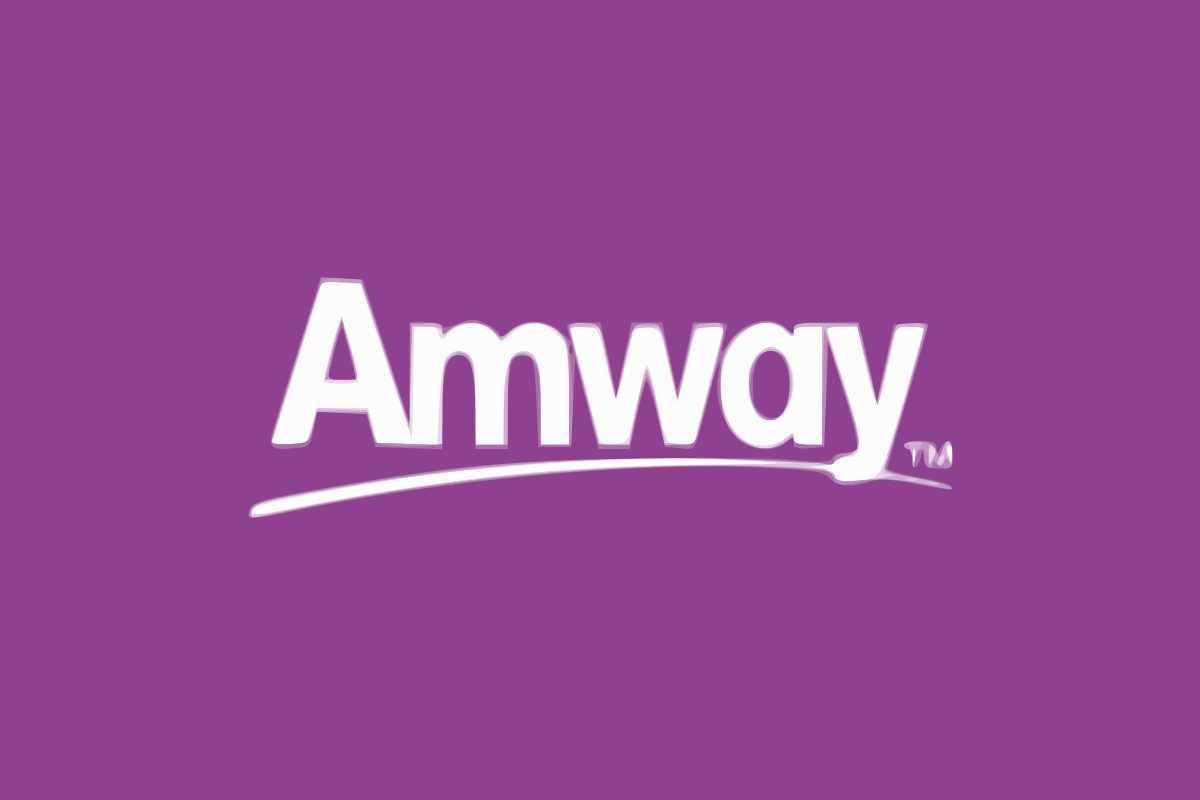
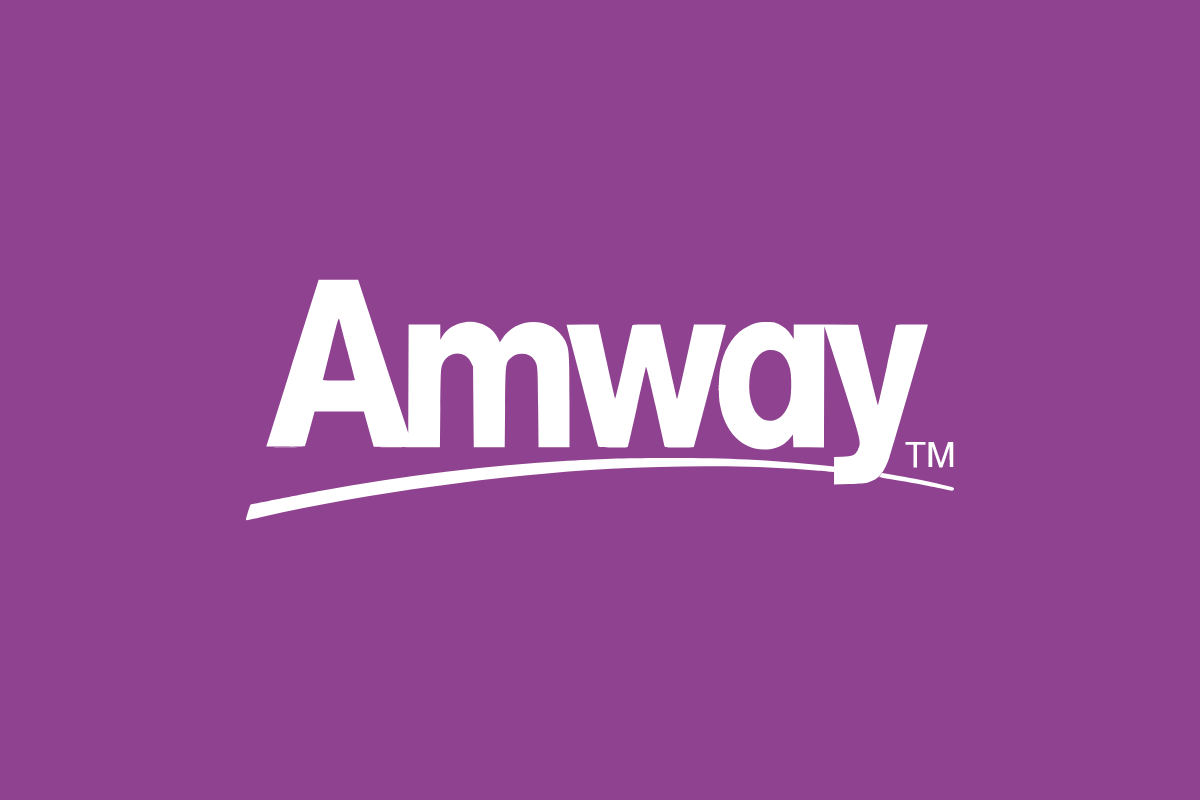
minor style adjustments

Changed region(s): [[0.2158, 0.3438, 0.8017, 0.625], [0.185, 0.625, 0.2467, 0.6562]]

diff --git a/index.html b/index.html
@@ -42,7 +42,8 @@
       <div class="collapse navbar-collapse" id="navbarSupportedContent">
             
         <div class="left-menu">
-          <ul class="navbar-nav nav-dropdown" data-app-modern-menu="true"><li class="nav-item">
+          <ul class="navbar-nav nav-dropdown" data-app-modern-menu="true">
+              <li class="nav-item">
                   <a class="nav-link link text-black display-4" href="https://cash.me/$michaelsboost">DONATE</a>
               </li>
               <li class="nav-item">
@@ -55,7 +56,7 @@
           <div class="navbar-brand">
               <span class="navbar-logo">
                   
-                      <a href="index.html"><img src="assets/images/logo-355x355.png" alt="Mobirise" title="" media-simple="true" style="height: 3.8rem;"></a>
+                      <a href="index.html"><img src="assets/images/logo-355x355.png" alt="Home" title="" media-simple="true" style="height: 3.8rem;"></a>
                   
               </span>
               <span class="navbar-caption-wrap"><a class="navbar-caption text-black display-5" href="http://michaelsboost.github.io/">&nbsp;</a></span>
@@ -63,7 +64,8 @@
         </div>
 
         <div class="right-menu">
-          <ul class="navbar-nav nav-dropdown" data-app-modern-menu="true"><li class="nav-item">
+          <ul class="navbar-nav nav-dropdown" data-app-modern-menu="true">
+            <li class="nav-item">
                 <a class="nav-link link text-black display-4" href="apps.html">
                     APPLICATIONS</a>
             </li>
@@ -383,7 +385,7 @@
             <div class="card px-3 py-4 col-12 col-md-6 col-lg-3">
                 <div class="card-wrapper">
                     <div class="card-img">
-                        <a href="http://earthily-enterprises.com/" target="_blank"><img src="assets/images/amway-bg-1200x800.png" alt="Mobirise" title="" media-simple="true"></a>
+                        <a href="http://earthily-enterprises.com/" target="_blank"><img src="assets/images/amway-1200x800.svg" alt="Amway" title="" media-simple="true"></a>
                     </div>
                     
                 </div>
@@ -392,7 +394,7 @@
             <div class="card px-3 py-4 col-12 col-md-6 col-lg-3">
                 <div class="card-wrapper">
                     <div class="card-img">
-                        <a href="http://www.swagbucks.com/refer/justicerises"><img src="assets/images/wfwqw-756x504.png" alt="Mobirise" title="" media-simple="true"></a>
+                        <a href="http://www.swagbucks.com/refer/justicerises"><img src="assets/images/wfwqw-756x504.png" alt="Swagbucks" title="" media-simple="true"></a>
                     </div>
                     
                 </div>
@@ -401,7 +403,7 @@
             <div class="card px-3 py-4 col-12 col-md-6 col-lg-3">
                 <div class="card-wrapper">
                     <div class="card-img">
-                        <a href="https://share.robinhood.com/michaes2685" target="_blank"><img src="assets/images/mbr-2-1620x1080.jpg" alt="Mobirise" title="" media-simple="true"></a>
+                        <a href="https://share.robinhood.com/michaes2685" target="_blank"><img src="assets/images/mbr-2-1620x1080.jpg" alt="Robinhood" title="" media-simple="true"></a>
                     </div>
                     
                 </div>
@@ -410,7 +412,7 @@
             <div class="card px-3 py-4 col-12 col-md-6 col-lg-3">
                 <div class="card-wrapper">
                     <div class="card-img">
-                        <a href="http://animatron.com/wave?tap_a=19272-291192&tap_s=245506-aed048"><img src="assets/images/mbr-4-1620x1080.jpg" alt="Mobirise" title="" media-simple="true"></a>
+                        <a href="http://animatron.com/wave?tap_a=19272-291192&tap_s=245506-aed048"><img src="assets/images/mbr-4-1620x1080.jpg" alt="Animatron Wave" title="" media-simple="true"></a>
                     </div>
                     
                 </div>
@@ -425,7 +427,7 @@
             <div class="card px-3 py-4 col-12 col-md-6 col-lg-3">
                 <div class="card-wrapper">
                     <div class="card-img">
-                        <a href="https://get.uber.com/invite/michaels41699ue"><img src="assets/images/uber-ad-2-1620x1080.png" alt="Mobirise" title="" media-simple="true"></a>
+                        <a href="https://get.uber.com/invite/michaels41699ue"><img src="assets/images/uber-ad-2-1620x1080.png" alt="Uber" title="" media-simple="true"></a>
                     </div>
                     
                 </div>
@@ -435,7 +437,7 @@
             <div class="card px-3 py-4 col-12 col-md-6 col-lg-3">
                 <div class="card-wrapper">
                     <div class="card-img">
-                        <a href="https://www.taskrabbit.com/r/360a3/try"><img src="assets/images/taskrabbit-ad-2-1620x1080.png" alt="Mobirise" title="" media-simple="true"></a>
+                        <a href="https://www.taskrabbit.com/r/360a3/try"><img src="assets/images/taskrabbit-ad-2-1620x1080.png" alt="TaskRabbit" title="" media-simple="true"></a>
                     </div>
                     
                 </div>
@@ -445,7 +447,7 @@
             <div class="card px-3 py-4 col-12 col-md-6 col-lg-3">
                 <div class="card-wrapper">
                     <div class="card-img">
-                        <a href="https://www.ebates.com/r/SCHWAR1559?eeid=28187" target="_blank"><img src="assets/images/ebates-1200x800.png" alt="Mobirise" title="" media-simple="true"></a>
+                        <a href="https://www.ebates.com/r/SCHWAR1559?eeid=28187" target="_blank"><img src="assets/images/ebates-1200x800.png" alt="Ebates" title="" media-simple="true"></a>
                     </div>
                     
                 </div>
@@ -454,7 +456,7 @@
             <div class="card px-3 py-4 col-12 col-md-6 col-lg-3">
                 <div class="card-wrapper">
                     <div class="card-img">
-                        <a href="https://www.paypal.com/us/webapps/mpp/invite?token=kepXqLE2LN0"><img src="assets/images/paypal-ad-banner-1-1620x1080.png" alt="Mobirise" title="" media-simple="true"></a>
+                        <a href="https://www.paypal.com/us/webapps/mpp/invite?token=kepXqLE2LN0"><img src="assets/images/paypal-ad-banner-1-1620x1080.png" alt="Paypal" title="" media-simple="true"></a>
                     </div>
                     
                 </div>
@@ -464,7 +466,7 @@
             <div class="card px-3 py-4 col-12 col-md-6 col-lg-3">
                 <div class="card-wrapper">
                     <div class="card-img">
-                        <a href="https://cash.me/app/HMRRQXC" target="_blank"><img src="assets/images/square-cash-ad-1620x1080.png" alt="Mobirise" title="" media-simple="true"></a>
+                        <a href="https://cash.me/app/HMRRQXC" target="_blank"><img src="assets/images/square-cash-ad-1620x1080.png" alt="SquareCash" title="" media-simple="true"></a>
                     </div>
                     
                 </div>
@@ -474,7 +476,7 @@
             <div class="card px-3 py-4 col-12 col-md-6 col-lg-3">
                 <div class="card-wrapper">
                     <div class="card-img">
-                        <a href="https://webflow.com/?rfsn=1141243.a093a" target="_blank"><img src="assets/images/webflow-1200x800.png" alt="Mobirise" title="" media-simple="true"></a>
+                        <a href="https://webflow.com/?rfsn=1141243.a093a" target="_blank"><img src="assets/images/webflow-1200x800.png" alt="Webflow" title="" media-simple="true"></a>
                     </div>
                     
                 </div>
@@ -522,7 +524,7 @@
 <div id="mikes_posts">
   <div class="container">
     <div class="row">
-      <div class="box align-center">
+      <div class="box align-center mauto">
         <h2>Instagram Photos</h2>
         <div class="desc" align="center">
           <br>
@@ -536,7 +538,7 @@
           <div class="clear"></div>
         </div>
       </div>
-      <div class="box align-center">
+      <div class="box align-center mauto">
         <h2>Recent Tweets</h2>
         <div class="desc" align="center">
           <br>
@@ -546,7 +548,7 @@
           <div class="clear"></div>
         </div>
       </div>
-      <div class="box align-center">
+      <div class="box align-center mauto">
         <h2>Facebook Posts</h2>
         <div class="desc" align="center">
           <br>

diff --git a/apps.html b/apps.html
@@ -332,7 +332,7 @@
             <div class="card px-3 py-4 col-12 col-md-6 col-lg-3">
                 <div class="card-wrapper">
                     <div class="card-img">
-                        <a href="http://earthily-enterprises.com/" target="_blank"><img src="assets/images/amway-bg-1200x800.png" alt="Mobirise" title="" media-simple="true"></a>
+                        <a href="http://earthily-enterprises.com/" target="_blank"><img src="assets/images/amway-1200x800.svg" alt="Amway" title="" media-simple="true"></a>
                     </div>
                     
                 </div>
@@ -341,7 +341,7 @@
             <div class="card px-3 py-4 col-12 col-md-6 col-lg-3">
                 <div class="card-wrapper">
                     <div class="card-img">
-                        <a href="http://www.swagbucks.com/refer/justicerises"><img src="assets/images/wfwqw-756x504.png" alt="Mobirise" title="" media-simple="true"></a>
+                        <a href="http://www.swagbucks.com/refer/justicerises"><img src="assets/images/wfwqw-756x504.png" alt="Swagbucks" title="" media-simple="true"></a>
                     </div>
                     
                 </div>
@@ -350,7 +350,7 @@
             <div class="card px-3 py-4 col-12 col-md-6 col-lg-3">
                 <div class="card-wrapper">
                     <div class="card-img">
-                        <a href="https://share.robinhood.com/michaes2685" target="_blank"><img src="assets/images/mbr-2-1620x1080.jpg" alt="Mobirise" title="" media-simple="true"></a>
+                        <a href="https://share.robinhood.com/michaes2685" target="_blank"><img src="assets/images/mbr-2-1620x1080.jpg" alt="Robinhood" title="" media-simple="true"></a>
                     </div>
                     
                 </div>
@@ -359,7 +359,7 @@
             <div class="card px-3 py-4 col-12 col-md-6 col-lg-3">
                 <div class="card-wrapper">
                     <div class="card-img">
-                        <a href="http://animatron.com/wave?tap_a=19272-291192&tap_s=245506-aed048"><img src="assets/images/mbr-4-1620x1080.jpg" alt="Mobirise" title="" media-simple="true"></a>
+                        <a href="http://animatron.com/wave?tap_a=19272-291192&tap_s=245506-aed048"><img src="assets/images/mbr-4-1620x1080.jpg" alt="Animatron Wave" title="" media-simple="true"></a>
                     </div>
                     
                 </div>
@@ -374,7 +374,7 @@
             <div class="card px-3 py-4 col-12 col-md-6 col-lg-3">
                 <div class="card-wrapper">
                     <div class="card-img">
-                        <a href="https://get.uber.com/invite/michaels41699ue"><img src="assets/images/uber-ad-2-1620x1080.png" alt="Mobirise" title="" media-simple="true"></a>
+                        <a href="https://get.uber.com/invite/michaels41699ue"><img src="assets/images/uber-ad-2-1620x1080.png" alt="Uber" title="" media-simple="true"></a>
                     </div>
                     
                 </div>
@@ -384,7 +384,7 @@
             <div class="card px-3 py-4 col-12 col-md-6 col-lg-3">
                 <div class="card-wrapper">
                     <div class="card-img">
-                        <a href="https://www.taskrabbit.com/r/360a3/try"><img src="assets/images/taskrabbit-ad-2-1620x1080.png" alt="Mobirise" title="" media-simple="true"></a>
+                        <a href="https://www.taskrabbit.com/r/360a3/try"><img src="assets/images/taskrabbit-ad-2-1620x1080.png" alt="TaskRabbit" title="" media-simple="true"></a>
                     </div>
                     
                 </div>
@@ -394,7 +394,7 @@
             <div class="card px-3 py-4 col-12 col-md-6 col-lg-3">
                 <div class="card-wrapper">
                     <div class="card-img">
-                        <a href="https://www.ebates.com/r/SCHWAR1559?eeid=28187" target="_blank"><img src="assets/images/ebates-1200x800.png" alt="Mobirise" title="" media-simple="true"></a>
+                        <a href="https://www.ebates.com/r/SCHWAR1559?eeid=28187" target="_blank"><img src="assets/images/ebates-1200x800.png" alt="Ebates" title="" media-simple="true"></a>
                     </div>
                     
                 </div>
@@ -403,7 +403,7 @@
             <div class="card px-3 py-4 col-12 col-md-6 col-lg-3">
                 <div class="card-wrapper">
                     <div class="card-img">
-                        <a href="https://www.paypal.com/us/webapps/mpp/invite?token=kepXqLE2LN0"><img src="assets/images/paypal-ad-banner-1-1620x1080.png" alt="Mobirise" title="" media-simple="true"></a>
+                        <a href="https://www.paypal.com/us/webapps/mpp/invite?token=kepXqLE2LN0"><img src="assets/images/paypal-ad-banner-1-1620x1080.png" alt="Paypal" title="" media-simple="true"></a>
                     </div>
                     
                 </div>
@@ -413,7 +413,7 @@
             <div class="card px-3 py-4 col-12 col-md-6 col-lg-3">
                 <div class="card-wrapper">
                     <div class="card-img">
-                        <a href="https://cash.me/app/HMRRQXC" target="_blank"><img src="assets/images/square-cash-ad-1620x1080.png" alt="Mobirise" title="" media-simple="true"></a>
+                        <a href="https://cash.me/app/HMRRQXC" target="_blank"><img src="assets/images/square-cash-ad-1620x1080.png" alt="SquareCash" title="" media-simple="true"></a>
                     </div>
                     
                 </div>
@@ -423,7 +423,7 @@
             <div class="card px-3 py-4 col-12 col-md-6 col-lg-3">
                 <div class="card-wrapper">
                     <div class="card-img">
-                        <a href="https://webflow.com/?rfsn=1141243.a093a" target="_blank"><img src="assets/images/webflow-1200x800.png" alt="Mobirise" title="" media-simple="true"></a>
+                        <a href="https://webflow.com/?rfsn=1141243.a093a" target="_blank"><img src="assets/images/webflow-1200x800.png" alt="Webflow" title="" media-simple="true"></a>
                     </div>
                     
                 </div>
@@ -471,7 +471,7 @@
 <div id="mikes_posts">
   <div class="container">
     <div class="row">
-      <div class="box align-center">
+      <div class="box align-center mauto">
         <h2>Instagram Photos</h2>
         <div class="desc" align="center">
           <br>
@@ -485,7 +485,7 @@
           <div class="clear"></div>
         </div>
       </div>
-      <div class="box align-center">
+      <div class="box align-center mauto">
         <h2>Recent Tweets</h2>
         <div class="desc" align="center">
           <br>
@@ -495,7 +495,7 @@
           <div class="clear"></div>
         </div>
       </div>
-      <div class="box align-center">
+      <div class="box align-center mauto">
         <h2>Facebook Posts</h2>
         <div class="desc" align="center">
           <br>

diff --git a/books.html b/books.html
@@ -298,7 +298,7 @@
             <div class="card px-3 py-4 col-12 col-md-6 col-lg-3">
                 <div class="card-wrapper">
                     <div class="card-img">
-                        <a href="http://earthily-enterprises.com/" target="_blank"><img src="assets/images/amway-bg-1200x800.png" alt="Mobirise" title="" media-simple="true"></a>
+                        <a href="http://earthily-enterprises.com/" target="_blank"><img src="assets/images/amway-1200x800.svg" alt="Amway" title="" media-simple="true"></a>
                     </div>
                     
                 </div>
@@ -307,7 +307,7 @@
             <div class="card px-3 py-4 col-12 col-md-6 col-lg-3">
                 <div class="card-wrapper">
                     <div class="card-img">
-                        <a href="http://www.swagbucks.com/refer/justicerises"><img src="assets/images/wfwqw-756x504.png" alt="Mobirise" title="" media-simple="true"></a>
+                        <a href="http://www.swagbucks.com/refer/justicerises"><img src="assets/images/wfwqw-756x504.png" alt="Swagbucks" title="" media-simple="true"></a>
                     </div>
                     
                 </div>
@@ -316,7 +316,7 @@
             <div class="card px-3 py-4 col-12 col-md-6 col-lg-3">
                 <div class="card-wrapper">
                     <div class="card-img">
-                        <a href="https://share.robinhood.com/michaes2685" target="_blank"><img src="assets/images/mbr-2-1620x1080.jpg" alt="Mobirise" title="" media-simple="true"></a>
+                        <a href="https://share.robinhood.com/michaes2685" target="_blank"><img src="assets/images/mbr-2-1620x1080.jpg" alt="Robinhood" title="" media-simple="true"></a>
                     </div>
                     
                 </div>
@@ -325,7 +325,7 @@
             <div class="card px-3 py-4 col-12 col-md-6 col-lg-3">
                 <div class="card-wrapper">
                     <div class="card-img">
-                        <a href="http://animatron.com/wave?tap_a=19272-291192&tap_s=245506-aed048"><img src="assets/images/mbr-4-1620x1080.jpg" alt="Mobirise" title="" media-simple="true"></a>
+                        <a href="http://animatron.com/wave?tap_a=19272-291192&tap_s=245506-aed048"><img src="assets/images/mbr-4-1620x1080.jpg" alt="Animatron Wave" title="" media-simple="true"></a>
                     </div>
                     
                 </div>
@@ -340,7 +340,7 @@
             <div class="card px-3 py-4 col-12 col-md-6 col-lg-3">
                 <div class="card-wrapper">
                     <div class="card-img">
-                        <a href="https://get.uber.com/invite/michaels41699ue"><img src="assets/images/uber-ad-2-1620x1080.png" alt="Mobirise" title="" media-simple="true"></a>
+                        <a href="https://get.uber.com/invite/michaels41699ue"><img src="assets/images/uber-ad-2-1620x1080.png" alt="Uber" title="" media-simple="true"></a>
                     </div>
                     
                 </div>
@@ -350,7 +350,7 @@
             <div class="card px-3 py-4 col-12 col-md-6 col-lg-3">
                 <div class="card-wrapper">
                     <div class="card-img">
-                        <a href="https://www.taskrabbit.com/r/360a3/try"><img src="assets/images/taskrabbit-ad-2-1620x1080.png" alt="Mobirise" title="" media-simple="true"></a>
+                        <a href="https://www.taskrabbit.com/r/360a3/try"><img src="assets/images/taskrabbit-ad-2-1620x1080.png" alt="TaskRabbit" title="" media-simple="true"></a>
                     </div>
                     
                 </div>
@@ -360,7 +360,7 @@
             <div class="card px-3 py-4 col-12 col-md-6 col-lg-3">
                 <div class="card-wrapper">
                     <div class="card-img">
-                        <a href="https://www.ebates.com/r/SCHWAR1559?eeid=28187" target="_blank"><img src="assets/images/ebates-1200x800.png" alt="Mobirise" title="" media-simple="true"></a>
+                        <a href="https://www.ebates.com/r/SCHWAR1559?eeid=28187" target="_blank"><img src="assets/images/ebates-1200x800.png" alt="Ebates" title="" media-simple="true"></a>
                     </div>
                     
                 </div>
@@ -369,7 +369,7 @@
             <div class="card px-3 py-4 col-12 col-md-6 col-lg-3">
                 <div class="card-wrapper">
                     <div class="card-img">
-                        <a href="https://www.paypal.com/us/webapps/mpp/invite?token=kepXqLE2LN0"><img src="assets/images/paypal-ad-banner-1-1620x1080.png" alt="Mobirise" title="" media-simple="true"></a>
+                        <a href="https://www.paypal.com/us/webapps/mpp/invite?token=kepXqLE2LN0"><img src="assets/images/paypal-ad-banner-1-1620x1080.png" alt="Paypal" title="" media-simple="true"></a>
                     </div>
                     
                 </div>
@@ -379,7 +379,7 @@
             <div class="card px-3 py-4 col-12 col-md-6 col-lg-3">
                 <div class="card-wrapper">
                     <div class="card-img">
-                        <a href="https://cash.me/app/HMRRQXC" target="_blank"><img src="assets/images/square-cash-ad-1620x1080.png" alt="Mobirise" title="" media-simple="true"></a>
+                        <a href="https://cash.me/app/HMRRQXC" target="_blank"><img src="assets/images/square-cash-ad-1620x1080.png" alt="SquareCash" title="" media-simple="true"></a>
                     </div>
                     
                 </div>
@@ -389,7 +389,7 @@
             <div class="card px-3 py-4 col-12 col-md-6 col-lg-3">
                 <div class="card-wrapper">
                     <div class="card-img">
-                        <a href="https://webflow.com/?rfsn=1141243.a093a" target="_blank"><img src="assets/images/webflow-1200x800.png" alt="Mobirise" title="" media-simple="true"></a>
+                        <a href="https://webflow.com/?rfsn=1141243.a093a" target="_blank"><img src="assets/images/webflow-1200x800.png" alt="Webflow" title="" media-simple="true"></a>
                     </div>
                     
                 </div>
@@ -437,7 +437,7 @@
 <div id="mikes_posts">
   <div class="container">
     <div class="row">
-      <div class="box align-center">
+      <div class="box align-center mauto">
         <h2>Instagram Photos</h2>
         <div class="desc" align="center">
           <br>
@@ -451,7 +451,7 @@
           <div class="clear"></div>
         </div>
       </div>
-      <div class="box align-center">
+      <div class="box align-center mauto">
         <h2>Recent Tweets</h2>
         <div class="desc" align="center">
           <br>
@@ -461,7 +461,7 @@
           <div class="clear"></div>
         </div>
       </div>
-      <div class="box align-center">
+      <div class="box align-center mauto">
         <h2>Facebook Posts</h2>
         <div class="desc" align="center">
           <br>

diff --git a/assets/theme/css/style.css b/assets/theme/css/style.css
@@ -424,3 +424,8 @@ nav .mbr-section-btn {
 	top: 0;
 	left: -2400px;
 }
+
+/* margin auto */
+.mauto {
+  margin: auto;
+}
